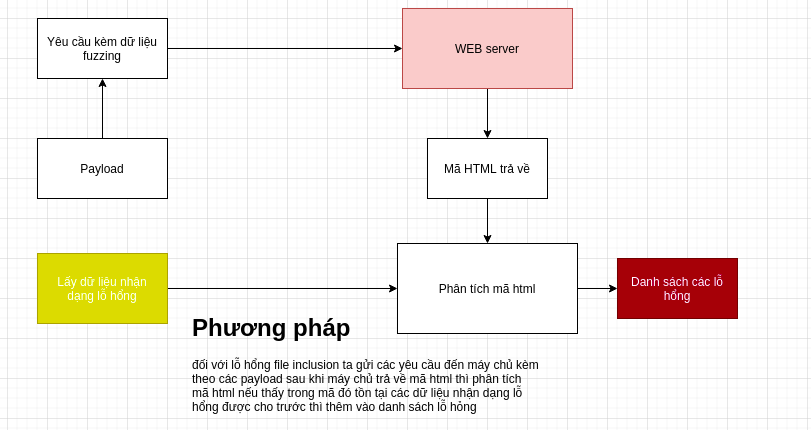
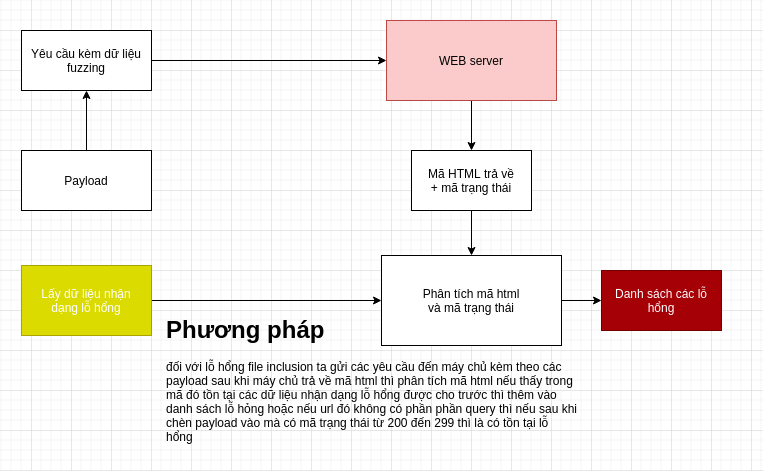
:_)))

diff --git a/FileInclusion/fileinclusion.py b/FileInclusion/fileinclusion.py
@@ -1,6 +1,6 @@
 from WebConfig import web
 from Logging import log as Log
-from urllib.parse import urlparse
+from urllib.parse import urlparse, urljoin
 
 f = open("FileInclusion/fileic.txt", "r")
 payloads = []
@@ -12,6 +12,18 @@ KEYS_WORDS = ["root:x:0:0", "root:/root:", "daemon:x:1:", "daemon:x:2", "bin:x:1
     , "MySQL Server", "gnats:x:", "www-data:x:", "/usr/sbin/", "backup:x:"]
 
 
+"""
+Dựa vào kết quả thông báo lỗi của hệ thống
+ta có thể biết được hệ thống có thực thi đoạn
+dữ liệu fuzzing đầu vào hay không hoặc
+URL đó có tồn tại hay không.
+Ví dụ: Khi tìm một URL mặc định của hệ
+thống. Nếu nó trả về giá trị lớn hơn hoặc
+bằng 200 và nhỏ hơn 300. Thì có nghĩa là
+URL đó là tồn tại.
+
+"""
+
 def find_key_words(html):
     for key_word in KEYS_WORDS:
         if key_word in html:
@@ -22,19 +34,26 @@ def find_key_words(html):
 def scaner_file_inclusion(url, vulnerable_url):
     querys = urlparse(url).query
     for payload in payloads:
+        # chèn payload vào query trong các urltồn tại query ví dụ: https://manhduc/name=1
+        # + /etc/pass -> https: // manhduc / name = / etc / passwd
         if querys != '':
             parser_query = []
             for query in querys.split("&"):
                 parser_query.append(query[0:query.find('=') + 1])
-
             new_query = "&".join([que + payload for que in parser_query])
             new_url = url.replace(querys, new_query, 1)
-            Log.info("scan file inclusion : " + new_url)
-            source = web.getHTML(new_url)
-            if source and source.status_code == 200:
-                if find_key_words(source.text):
-                    print(source.text)
-                    Log.high(Log.R + ' Vulnerable detected in url :' + new_url)
-                    vulnerable_url.append([new_url, 'url/href', payload])
-                    return True
+
+        #sử dụng để gộp url ví dụ https://manhduc/ + /etc/pass -> https://manhduc/etc/passwd
+        else:
+            new_url = urljoin(url,payload)
+
+        Log.info("scan file inclusion : " + new_url)
+        source = web.getHTML(new_url)
+        if source or source.status_code == 200:
+            if find_key_words(source.text):
+                print(source.text)
+                Log.high(Log.R + ' Vulnerable detected in url :' + new_url)
+                vulnerable_url.append([new_url, 'url/href', payload])
+                return True
+
     return False

diff --git a/README.md b/README.md
@@ -109,6 +109,7 @@ Code và thực nghiệm :
 ## Chức năng 2 : Dò quét lỗ hổng SQL INJECTION.
 
 lệnh chạy chứ năng san sql ịnection:
+-
 
 ```sh
 python fuzzing.py -u [TARGET URL] -s 
@@ -119,6 +120,7 @@ python fuzzing.py -u [TARGET URL] --sql
 ```
 
 example :
+-
 
 ```sh
 python fuzzing.py -u http://testphp.vulnweb.com/categories.php -s
@@ -146,7 +148,7 @@ code và thực nghiệm :
 
       ![image](picture/img_11.png)
 
-    - **Bước 3:** Gửi yêu cầu đến máy chủ lấy mã html về phân tích 
+    - **Bước 3:** dùng kỹ thuật tấn công brute-force gửi hàng loạt yêu cầu chứa payload đến máy chủ để lấy mã html về phân tích 
   
       ![image](picture/img_12.png)
 
@@ -165,12 +167,14 @@ code và thực nghiệm :
 - **_Kết Quả :_** trả về list các url có thể có lỗ hổng sql injection
     
     ![image](picture/img_16.png)
+- **_Hạn chế :_** không thể đảm quá trình quét là đây đủ trong khi thời gian thực hiện quét khá lâu thương là hơn 100s
 
 
 
-## Chức năng 3 : Dò quét lỗ hổng Cross-Site Scripting (XSS).
+# Chức năng 3 : Dò quét lỗ hổng Cross-Site Scripting (XSS).
 
 lệnh chạy chứ năng scan Cross-Site Scriptingn:
+-
 
 ```sh
 python fuzzing.py -u [TARGET URL] -x 
@@ -181,6 +185,7 @@ python fuzzing.py -u [TARGET URL] --xss
 ```
 
 example :
+-
 
 ```sh
 python fuzzing.py -u http://testphp.vulnweb.com/categories.php -x
@@ -190,10 +195,39 @@ python fuzzing.py -u http://testphp.vulnweb.com/categories.php --xss
 ```
 
 Logic và sound code [xss](https://github.com/LittleHawk03/Fuzzing_Project/tree/main/XSS):
+-
 
 
 ![image](picture/img_3.png)
 
+Code và thực nghiệm
+-
+
+- **_Mục Tiêu :_** nhận dạng các lỗ hổng xss thông qua việc chèn payload thông qua url (ở đây sẽ chủ yếu trên thẻ form)
+- **_Các bước thực hiện :_**
+
+    - **Bước 1 :** sinh payload trong file [xss.txt](XSS/xss.txt)
+    
+      ![image](picture/img_17.png)
+  
+    - **Bước 2 :** sẽ tập trung chủ yếu vào các thẻ form trên mã html nên bước này sẽ là tạo dữ liệu fuzzing (thương là dữ liệu để post có dạng là một dictionary trong python {'name':'Manh Duc','age':'20'})
+    
+      ![image](picture/img_18.png)
+  
+    - **Bước 3 :** sử dũng kỹ thuật tấn công brute force đẩy gửi liên tục các dữ liệu payload lên máy chủ web để lấy mã html trả về
+
+      ![image](picture/img_19.png)
+      
+        - _sau khi lấy được mã html ta tiến hành phân tích nếu như mà trong mã html có tồn tại payload thì có tồn tại lỗi xss_
+    - **Bước 4 :** thu kết quả sau khi quét tại 
+  
+      ![image](picture/img_20.png)
+    
+    - **Bước 5 :** có thể chèn các payload vào phần query của url (vd:id=payload) rồi vẫn kiểm tra xem payload có trong url không 
+
+- **_Kết quả :_** kết quả trả về là list các url có lỗi xss
+- **_Hạn chế :_** không đảm bảo có thể quét hết lỗi và thời gian thư thi lâu > 100s
+        
 ## Chức năng 4 : Dò quét lỗ hổng File Inclusion.
 
 lệnh chạy chứ năng scan File Inclusionn:
@@ -215,27 +249,30 @@ python fuzzing.py -u http://testphp.vulnweb.com/categories.php -f
 python fuzzing.py -u http://testphp.vulnweb.com/categories.php --file
 ```
 
-Logic và sound code [file inclusion](https://github.com/LittleHawk03/Fuzzing_Project/tree/main/FileInclusion):
+
+Logic và sound code [file inclusion](https://github.com/LittleHawk03/Fuzzing_Project/tree/main/FileInclusion) :
+-
+
 
 ![image](picture/img_4.png)
 
-   [dill]: <https://github.com/joemccann/dillinger>
-   [git-repo-url]: <https://github.com/joemccann/dillinger.git>
-   [john gruber]: <http://daringfireball.net>
-   [df1]: <http://daringfireball.net/projects/markdown/>
-   [markdown-it]: <https://github.com/markdown-it/markdown-it>
-   [Ace Editor]: <http://ace.ajax.org>
-   [node.js]: <http://nodejs.org>
-   [Twitter Bootstrap]: <http://twitter.github.com/bootstrap/>
-   [jQuery]: <http://jquery.com>
-   [@tjholowaychuk]: <http://twitter.com/tjholowaychuk>
-   [express]: <http://expressjs.com>
-   [AngularJS]: <http://angularjs.org>
-   [Gulp]: <http://gulpjs.com>
 
-   [PlDb]: <https://github.com/joemccann/dillinger/tree/master/plugins/dropbox/README.md>
-   [PlGh]: <https://github.com/joemccann/dillinger/tree/master/plugins/github/README.md>
-   [PlGd]: <https://github.com/joemccann/dillinger/tree/master/plugins/googledrive/README.md>
-   [PlOd]: <https://github.com/joemccann/dillinger/tree/master/plugins/onedrive/README.md>
-   [PlMe]: <https://github.com/joemccann/dillinger/tree/master/plugins/medium/README.md>
-   [PlGa]: <https://github.com/RahulHP/dillinger/blob/master/plugins/googleanalytics/README.md>
+Code và thực nghiệm :
+-
+
+- **_Mục Tiêu :_** nhận dạng được các lỗ hổng file inclusion thông qua url
+- **_Các bước thực hiện :_**
+
+  - **Bước 1 :** sinh payload tại file [fileic.txt](FileInclusion/fileic.txt)
+
+  - **Bước 2 :** chèn các payload vào url :
+
+[//]: # (     - _C1 : chèn payload vào query trong các url tồn tại query ví dụ : https://manhduc/name=1 + /etc/pass -> https://manhduc/name=/etc/passwd_)
+
+[//]: # (     - _C2 : chèn payload vào url không có phần query ví dụ: https://manhduc/ + /etc/pass -> https://manhduc/etc/passwd__)
+
+
+
+    
+
+  - **Bước 3:** gửi yêu cầu đến máy chủ để nhận mã html và mã trạng thái (có 2 cách để xác định là nhờ vào mã trạng thái trả về nếu mã trạng thái từ 200 -> 299 thì có lỗ hổng hoặc so sánh lỗi )
